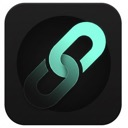
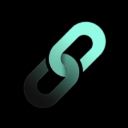
minor visual fixes

diff --git a/options.html b/options.html
@@ -9,12 +9,16 @@
       font-family: 'Segoe UI', sans-serif; 
       display: flex;
       justify-content: center;
-      padding: 40px 20px;
+      align-items: center;
+      padding: 20px 10px;
       margin: 0;
+      width: 600px;
+      box-sizing: border-box;
+      min-height: 600px;
     }
     .container { 
       width: 100%;
-      max-width: 550px; 
+      max-width: 580px; 
       border: 1px solid #54E4C3; 
       padding: 30px; 
       border-radius: 16px;

diff --git a/README.md b/README.md
@@ -23,3 +23,7 @@ This extension does not collect, store, or transmit any user data. All processin
 You can read the full [Privacy Policy here](https://gist.github.com/desertdognl).
 
 [![Buy Me A Coffee](https://img.shields.io/badge/Buy%20Me%20a%20Coffee-ffdd00?style=for-the-badge&logo=buy-me-a-coffee&logoColor=black)](https://www.buymeacoffee.com/desertdog)
+
+## 📝 Changelog
+
+See [CHANGELOG.md](CHANGELOG.md) for detailed version history.

diff --git a/CHANGELOG.md b/CHANGELOG.md
@@ -1,0 +1,5 @@
+# Changelog
+
+## v1.2.2
+- Increased the width of the options popup for better usability.
+- updated icon
